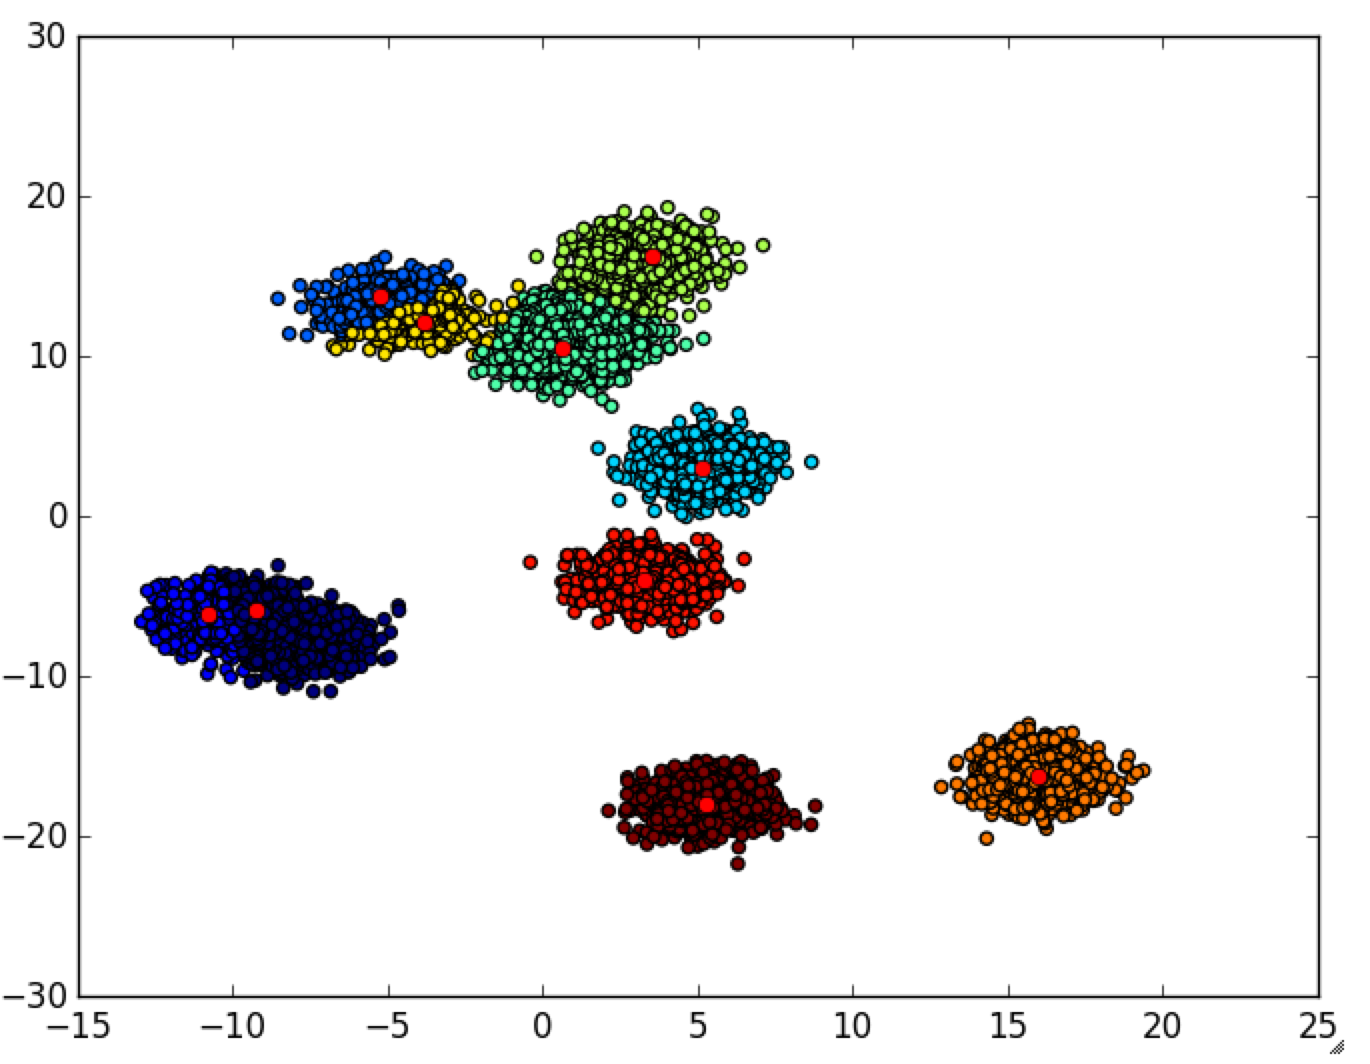
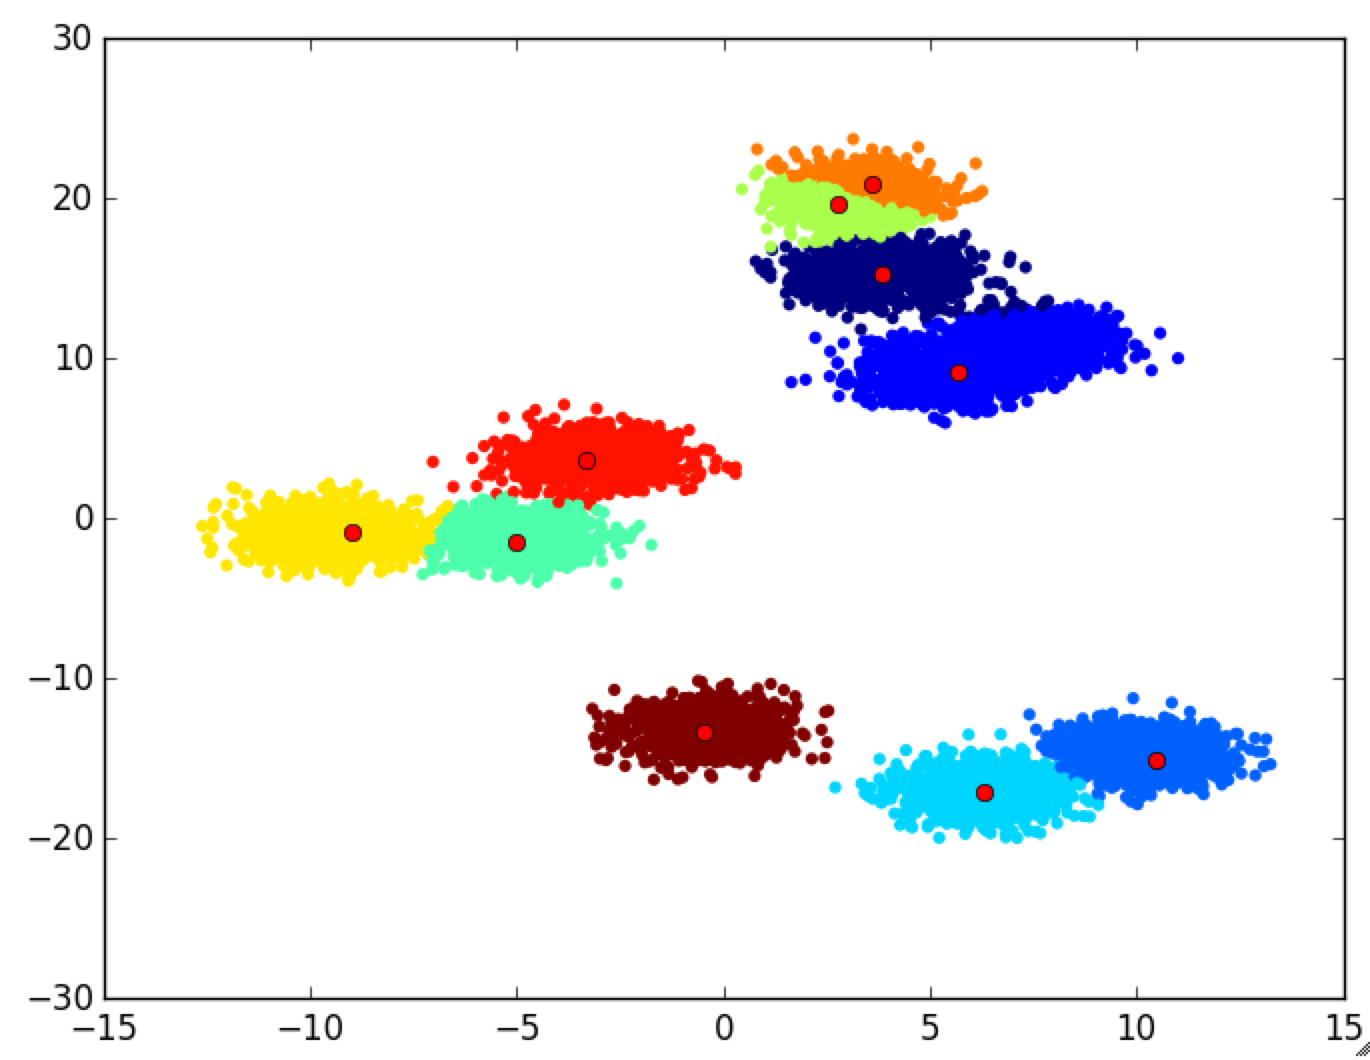
code cleanup, switch arg order in kshifts!

Changed region(s): [[0.0, 0.0, 1.0, 0.9962]]

diff --git a/README.md b/README.md
@@ -28,7 +28,7 @@ data = rand(2,1000)
 centers = kshifts(data,10)
 for i = 1:100
     data = rand(2,10)
-    kshifts!(data, centers)
+    kshifts!(centers, data)
 end
 ```
 
@@ -61,13 +61,13 @@ end
 Finally, let's look at some results:
 
 ```jl
-using FunctionalData
+using PyPlot, KShiftsClustering, FunctionalData
 data = @p map unstack(1:10) (x->10*randn(2,1).+randn(2,1000)) | flatten
+
 centers = kshifts(data,10)
 labels = kshiftslabels(data,centers)
 
-using PyPlot
-scatter(data[1,:], data[2,:], c=labels, marker = "o")
+scatter(data[1,:], data[2,:], c=labels, marker = "o", edgecolor = "none")
 plot(centers[1,:], centers[2,:], "ro")
 ```
 ![](example.png)
